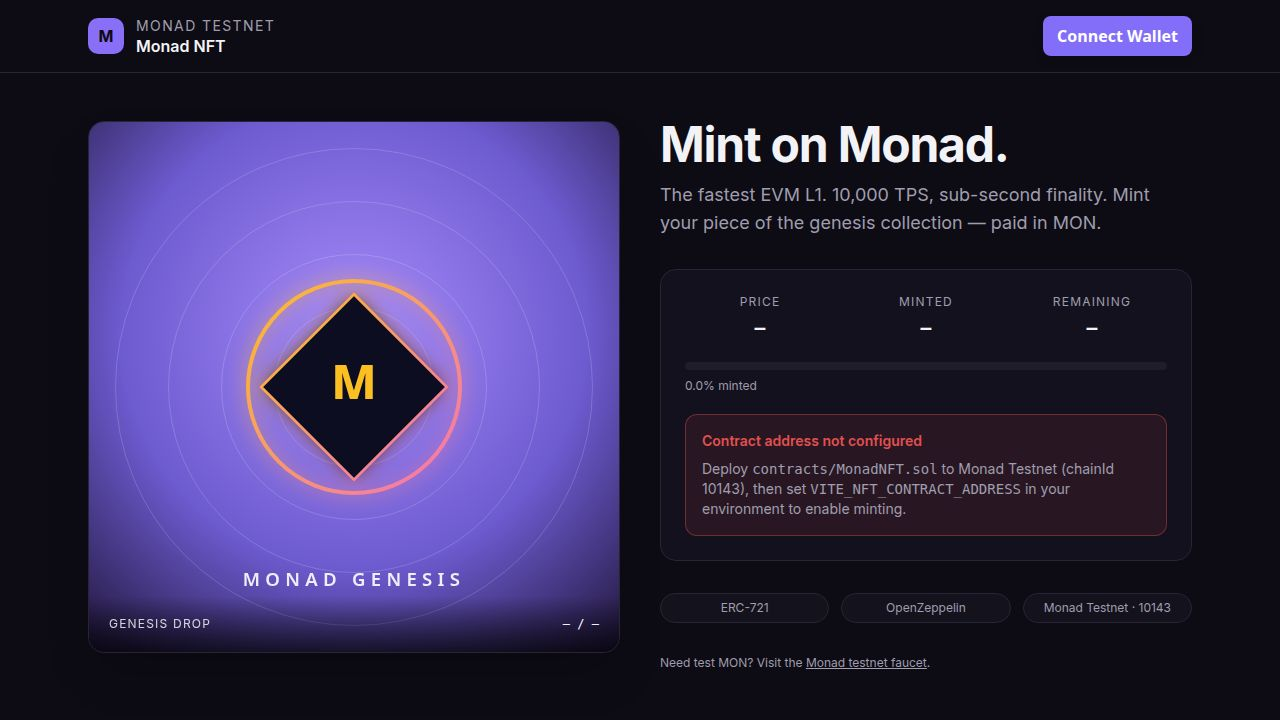
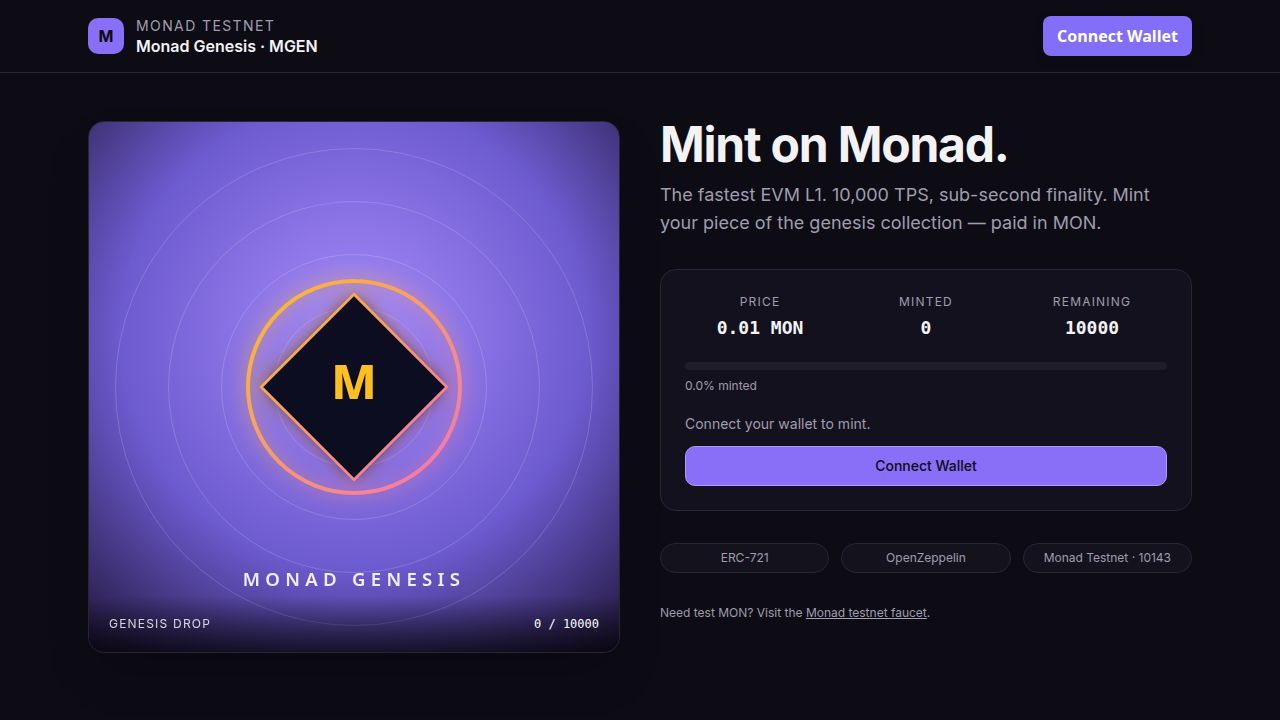
Add a maximum mint limit and display remaining count on the page
Update smart contract to enforce a per-wallet mint limit, integrate this limit into the UI, and configure Vercel for deployment.

Replit-Commit-Author: Agent
Replit-Commit-Session-Id: 66585c68-2c6a-47b0-8c2b-8750535882a7
Replit-Commit-Checkpoint-Type: full_checkpoint
Replit-Commit-Event-Id: 891be95c-5abb-4641-bd72-2499fea9af6e
Replit-Commit-Screenshot-Url: https://storage.googleapis.com/screenshot-production-us-central1/820fa328-f807-48a7-a0b5-0762466c8938/66585c68-2c6a-47b0-8c2b-8750535882a7/LBwaxeD
Replit-Helium-Checkpoint-Created: true

diff --git a/artifacts/nft-mint/src/pages/Mint.tsx b/artifacts/nft-mint/src/pages/Mint.tsx
@@ -33,6 +33,7 @@ export default function Mint() {
       { address: NFT_CONTRACT_ADDRESS, abi: NFT_ABI, functionName: "mintPrice" },
       { address: NFT_CONTRACT_ADDRESS, abi: NFT_ABI, functionName: "maxSupply" },
       { address: NFT_CONTRACT_ADDRESS, abi: NFT_ABI, functionName: "totalMinted" },
+      { address: NFT_CONTRACT_ADDRESS, abi: NFT_ABI, functionName: "maxPerWallet" },
     ],
     query: { enabled: isContractConfigured },
   });
@@ -50,6 +51,17 @@ export default function Mint() {
   const mintPrice = contractInfo?.[2]?.result as bigint | undefined;
   const maxSupply = contractInfo?.[3]?.result as bigint | undefined;
   const totalMinted = contractInfo?.[4]?.result as bigint | undefined;
+  const maxPerWallet = contractInfo?.[5]?.result as bigint | undefined;
+
+  const walletBalance = (balance as bigint | undefined) ?? 0n;
+  const walletRemaining =
+    typeof maxPerWallet === "bigint"
+      ? maxPerWallet > walletBalance
+        ? maxPerWallet - walletBalance
+        : 0n
+      : null;
+  const walletLimitReached =
+    typeof maxPerWallet === "bigint" && walletBalance >= maxPerWallet;
 
   const soldOut =
     typeof maxSupply === "bigint" &&
@@ -221,6 +233,22 @@ export default function Mint() {
               </div>
             </div>
 
+            {isConnected && typeof maxPerWallet === "bigint" && (
+              <div className="rounded-lg border border-border bg-muted/40 px-4 py-3 flex items-center justify-between text-sm">
+                <span className="text-muted-foreground">
+                  Per-wallet limit
+                </span>
+                <span className="font-mono font-semibold">
+                  {walletBalance.toString()} / {maxPerWallet.toString()} minted
+                  <span
+                    className={`ml-2 ${walletLimitReached ? "text-destructive" : "text-primary"}`}
+                  >
+                    ({walletRemaining?.toString() ?? "—"} left)
+                  </span>
+                </span>
+              </div>
+            )}
+
             {!isContractConfigured ? (
               <ConfigNotice />
             ) : !isConnected ? (
@@ -256,6 +284,10 @@ export default function Mint() {
             ) : soldOut ? (
               <Button size="lg" className="w-full" disabled>
                 Sold Out
+              </Button>
+            ) : walletLimitReached ? (
+              <Button size="lg" className="w-full" disabled>
+                Wallet limit reached ({maxPerWallet?.toString()})
               </Button>
             ) : (
               <Button

diff --git a/artifacts/nft-mint/src/lib/wagmi.ts b/artifacts/nft-mint/src/lib/wagmi.ts
@@ -64,6 +64,13 @@ export const NFT_ABI = [
     type: "function",
   },
   {
+    inputs: [],
+    name: "maxPerWallet",
+    outputs: [{ name: "", type: "uint256" }],
+    stateMutability: "view",
+    type: "function",
+  },
+  {
     inputs: [{ name: "owner", type: "address" }],
     name: "balanceOf",
     outputs: [{ name: "", type: "uint256" }],
